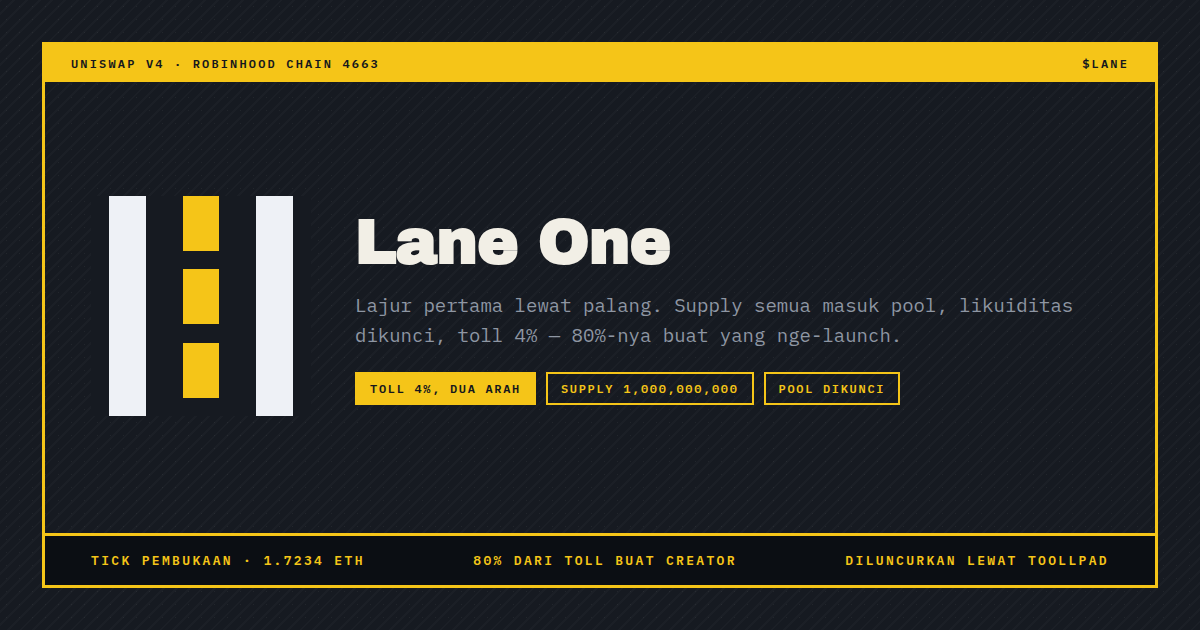
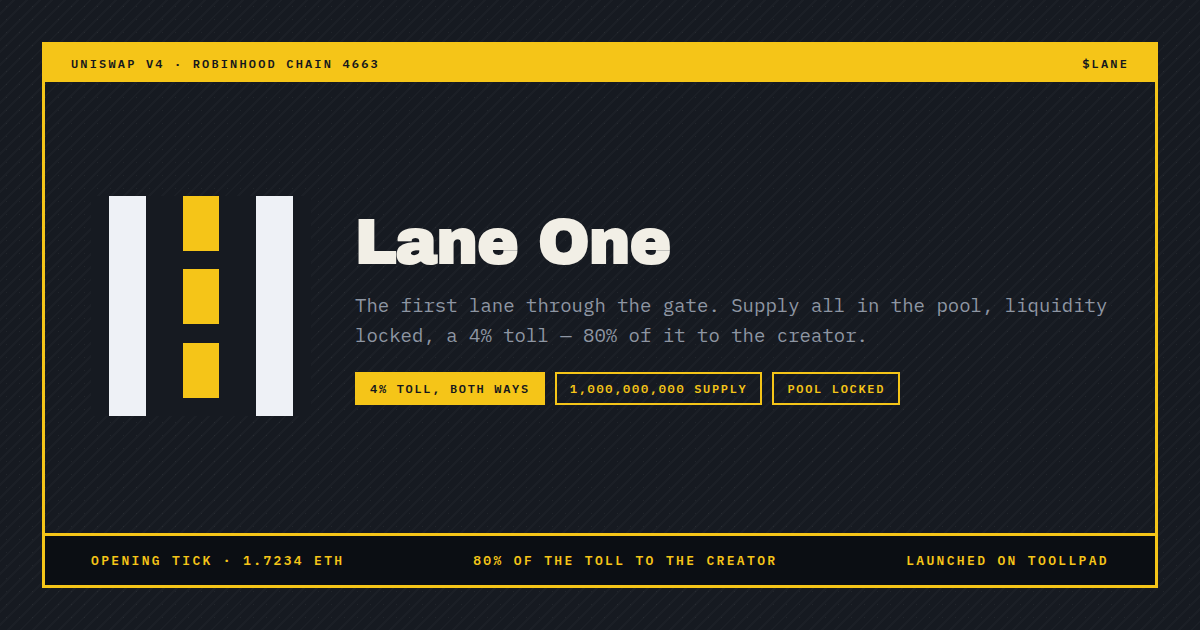
Put the account in English, everywhere it speaks
The audience is not the one the copy was written for. `profile.language` is
`en` now, and everything that faces outward follows it in one move — the page,
the banner and the link preview, the blurb that goes on chain with the notice,
and the bio.

One language, all the way through: a feed that switches half way reads like a
feed somebody else took over. The Indonesian bio stays in token.json under
`bio.id`, because the day that changes it should be a field and not a rewrite.

Claude-Session: https://claude.ai/code/session_01VnEFgbNeRk4dGA3iqU1kRi

diff --git a/PROFILE.md b/PROFILE.md
@@ -1,199 +1,185 @@
-# Lane One — akunnya
+# Lane One — the account
 
-Semua yang dibutuhkan buat nyetel `$LANE`, dalam kolom-kolom yang diminta X.
-Jumlah karakternya dihitung, bukan dikira-kira; X menghitung code point Unicode,
-dan em dash dihitung satu.
+Everything needed to set `$LANE` up, in the fields X asks for. Character counts
+were measured, not estimated; X counts Unicode code points, and the em dash
+counts as one.
 
-Launch-nya sendiri ada di [`token.json`](token.json) — file itu yang dikirim
-`npm run launch`, dan file ini yang ada di sekelilingnya.
+The launch itself is in [`token.json`](token.json) — that file is what
+`npm run launch` sends, and this one is what goes around it.
 
-**Akun ini berbahasa Indonesia dan tetap begitu.** Bio Inggris di atas feed
-Indonesia kebacanya seperti bio yang ditulis orang lain, jadi bahasanya satu:
-`profile.language` di `token.json` adalah `id`, dan art-nya ikut bahasa itu.
+**The account is in English and stays in it.** `profile.language` in
+`token.json` is `en`, and the page and the art follow it. An Indonesian bio is
+kept in that file under `bio.id` for the day that changes; a feed that switches
+language mid-way reads like a feed somebody else took over.
 
-## Namanya
+## The name
 
-**Lane One.** Token pertama yang diluncurkan lewat Toollpad, dan semuanya soal
-jalan: launchpad-nya palang, ini lajur yang lewat di bawahnya.
+**Lane One.** The first token launched through Toollpad, and a road the whole way
+down: the launchpad is a boom gate, and this is the lane that runs through it.
 
-Sengaja **tidak** dinamai seperti palangnya. Token bernama `$GATE` atau `$TOLL`,
-memakai mark milik launchpad-nya sendiri, persis berbentuk seperti Toollpad
-palsu — dan yang menanggung ruginya adalah pembaca yang tidak bisa membedakan.
-Mark di sini lajur jalan: dua garis tepi penuh dan satu garis tengah putus-putus,
-digambar di grid dua belas kali dua belas yang sama dengan palangnya, dan tidak
-berbagi apa pun selain itu.
+It is deliberately **not** named after the gate. A token called `$GATE` or
+`$TOLL`, wearing the launchpad's own mark, is the exact shape of the fake version
+of Toollpad — and the reader who cannot tell them apart is the one it would cost.
+The mark here is a lane of road: two solid edge lines and a broken centre line,
+drawn on the same twelve-by-twelve grid as the gate and sharing nothing else.
 
 ## Ticker
 
-**`$LANE`**. Bukan `$TOLL`, itu ticker milik launchpad-nya sendiri, dan bukan
-`$HOOD`, itu ticker Robinhood di NASDAQ — siapa pun yang baca sekilas akan
-mengiranya aset resmi Robinhood.
+**`$LANE`**. Not `$TOLL`, which is the launchpad's own ticker, and not `$HOOD`,
+which is Robinhood's NASDAQ ticker and would read as an official Robinhood asset
+to anyone skimming.
 
-## Display name — maks 50
+## Display name — max 50
 
-**Pakai ini** (16 karakter):
+**Pick this** (16 characters):
 
 ```
 Lane One | $LANE
 ```
 
-Alternatif: `Lane One` (8) · `Lane One — toll 4%, 80% buat kamu` (33)
+Alternatives: `Lane One` (8) · `Lane One — 4% toll, 80% yours` (29)
 
 ## Handle
 
-**`@laneone` masih usulan, belum didaftarkan.** Tidak ada yang mengklaimnya dari
-repo ini, jadi tidak ada satu pun gambar di sini yang mencetaknya — bukan banner,
-bukan avatar, bukan link preview — dan renderer-nya menolak render kalau ketemu,
-bukan sekadar mengandalkan ingatan.
+**`@laneone` is a proposal, not a registration.** Nothing here has claimed it, so
+nothing here prints it as if it had — not the banner, not the avatar, not the
+link preview, and the renderer refuses rather than trusting anyone to remember.
 
-Daftarkan dulu, baru isi `profile.handle` dan `link` di `token.json` lalu render
-ulang. Kalau sudah diambil orang: `@lane_one`, lalu `@onelanetoken`. Yang
-didaftarkan cuma satu, dan cuma yang itu yang ditulis di sini — handle dengan dua
-ejaan yang beredar adalah handle yang bisa jadi milik orang lain.
+Register it first, then fill in `profile.handle` and `link` in `token.json` and
+re-render. If it is taken: `@lane_one`, then `@onelanetoken`. Whichever one is
+registered is the only one ever written down here — a handle with two spellings
+in circulation is a handle somebody else can be.
 
-## Bio — maks 160
+## Bio — max 160
 
-**Pakai ini** (141 karakter):
+**Pick this** (147 characters):
 
 ```
-Satu lajur, satu toll. 4% tiap swap di Uniswap v4, 80% buat yang nge-launch. Supply 1 miliar, semua masuk pool. Likuiditas dikunci selamanya.
+One lane, one toll. 4% of every swap on Uniswap v4, 80% of it to whoever launched it. A billion supply, all in the pool. Liquidity locked for good.
 ```
 
-### Sisanya
+### The rest of them
 
-| Jumlah | Teks |
+| Count | Text |
 | --- | --- |
-| 138 | `Token di Uniswap v4: toll 4% tiap swap, dua arah, 80% buat creator. Supply 1 miliar masuk pool semua dan likuiditasnya nggak bisa ditarik.` |
-| 142 | `Nggak ada presale, nggak ada jatah tim. Supply 1 miliar langsung masuk pool dan dikunci. Tiap swap kena toll 4%, 80%-nya buat yang nge-launch.` |
-| 121 | `Lajur pertama lewat palang. 4% tiap swap, 80% buat yang nge-launch, sisanya masuk pool yang nggak bisa dikuras siapa pun.` |
-| 113 | `4% tiap swap. 80%-nya punya yang nge-launch. Sisanya masuk pool yang nggak bisa dikuras siapa pun, termasuk kami.` |
-
-Kalau suatu saat akunnya pindah ke bahasa Inggris, ganti `profile.language` jadi
-`en` dan render ulang — art-nya ikut. Bio Inggrisnya sudah siap (147 karakter):
-
-| Jumlah | Teks |
-| --- | --- |
-| 147 | `One lane, one toll. 4% of every swap on Uniswap v4, 80% of it to whoever launched it. A billion supply, all in the pool. Liquidity locked for good.` |
 | 140 | `The first lane through the gate. 4% of every swap, 80% of it to whoever launched it. A billion supply, all of it in a pool nobody can drain.` |
 | 141 | `One fee, both directions: 4% of everything paid in. The whole billion went into the pool, the pool is locked, and the pool's own fee is zero.` |
+| 139 | `Launched through Toollpad on Uniswap v4. 4% toll each way, 80% to the creator. No presale and no allocation — there was nowhere to put one.` |
+| 110 | `4% of every swap. 80% of it to the creator. The rest goes into a pool nobody can drain, this account included.` |
 
-### Yang sengaja tidak ada di semuanya
+### What is deliberately not in any of them
 
-**Harga, market cap, atau jumlah holder.** Ketiganya bergerak, bio tidak. Tick
-pembukaannya 1,7 ETH untuk seluruh supply — itu fakta tentang satu transaksi dan
-benar selamanya — tapi ditulis di bio, bacanya jadi "segini nilainya sekarang",
-padahal sudah tidak begitu sejak trade kedua.
+**A price, a market cap, or a holder count.** All three move and a bio does not.
+The opening tick values the whole supply at 1.7 ETH, which is a fact about one
+transaction and stays true forever — but in a bio it reads as what the token is
+worth today, which it will not be by the second trade.
 
-Yang **ada** di semuanya adalah konstanta di kontrak: `TOLL_BPS` 400,
-`CREATOR_BPS` 8000, `FIXED_SUPPLY` satu miliar — semuanya di `contracts/src/`,
-tidak ada setter-nya. Ubah salah satunya dan file ini jadi salah, jadi ubah file
-ini juga.
+What *is* in them are constants in a contract: `TOLL_BPS` is 400, `CREATOR_BPS`
+is 8000 and `FIXED_SUPPLY` is a billion, all in Toollpad's `contracts/src`, none
+with a setter. Change one and this file is wrong — so change this file too.
 
-## Blurb di notice (112 karakter)
+## The blurb on the notice (112 characters)
 
-Satu kalimat yang ikut masuk on-chain di notice-nya, dan tidak bisa diedit
-sesudahnya:
+One sentence that goes on chain with the launch, and is not editable afterwards:
 
 ```
-Lajur pertama lewat palang. Supply semua masuk pool, likuiditas dikunci, toll 4% — 80%-nya buat yang nge-launch.
+The first lane through the gate. Supply all in the pool, liquidity locked, a 4% toll — 80% of it to the creator.
 ```
 
 ## Website
 
-Halamannya sendiri, sudah live:
+Its own page, already live:
 
 ```
 https://lane-one-pi.vercel.app
 ```
 
-Itu juga yang jadi `imageURI` dan `link` di `token.json` — dua nilai yang ikut
-masuk on-chain di notice dan tidak bisa diedit sesudahnya, jadi keduanya harus
-menunjuk ke sesuatu yang benar-benar ada sebelum launch. Kalau nanti ada domain
-sendiri, ganti dulu di `token.json`, deploy, baru launch.
+That is also `imageURI` and `link` in `token.json` — two values that go on chain
+with the notice and cannot be edited afterwards, so both have to point at
+something that actually exists before the launch is sent. If a domain of its own
+comes later: change `token.json`, deploy, then launch, in that order.
 
-Isinya dua bagian: launch-nya seperti yang ditulis di `token.json`, dan apa kata
-chain — dibaca live, dan kosong selama belum diluncurkan. Setelah launch,
-alamat kontraknya tercatat di `token.json` dan halaman itu membacanya dari sana,
-bukan menebak dari ticker.
+Not an explorer page. It looks like a website, it is not one, and it goes stale
+the first time anything is redeployed. The contract address belongs in a post
+where it can be read against the chain, and on that page, which reads it from the
+chain itself.
 
-Bukan halaman explorer. Kelihatannya seperti website, padahal bukan, dan basi
-begitu ada yang di-redeploy. Alamat kontraknya tempatnya di post — supaya bisa
-dicek ke chain — dan di halaman itu, yang membacanya langsung dari chain.
+## Images
 
-## Gambar
-
-| Kolom | File | Ukuran |
+| Field | File | Size |
 | --- | --- | --- |
-| Foto profil | `out/avatar-1000.png` | 1000 × 1000 |
-| Header | `out/banner-1500x500.png` | 1500 × 500 |
-| Link preview | `out/og-1200x630.png` | 1200 × 630 |
+| Profile picture | `art/out/avatar-1000.png` | 1000 × 1000 |
+| Header | `art/out/banner-1500x500.png` | 1500 × 500 |
+| Link preview | `art/out/og-1200x630.png` | 1200 × 630 |
 
-Avatarnya full-bleed: garis-garis lajurnya keluar dari keempat sisi, jadi crop
-bulat ala X memotong jalan, bukan memotong sudut gambar jalan.
+The avatar is full-bleed: the lines of the lane run off all four edges, so X's
+circular crop takes road rather than taking the corners off a picture of road.
 
-Render ulang dengan `node token.mjs lane-one` di `../../brand`.
+Re-render with `npm run render` in [`art/`](art).
 
-## Launch-nya, seperti yang akan dikirim
+## The launch, as it will be sent
 
 | | |
 | --- | --- |
-| Tick pembukaan | 201800 — 1,7234 ETH untuk seluruh supply |
-| Range | 1,7 ETH di floor, 170 ETH di ceiling |
-| Supply | 1.000.000.000 — semuanya masuk pool |
-| Toll | 4% dari semua yang dibayarkan masuk, dua arah |
-| Bagian | 80% creator, 20% treasury |
-| Fee pool | Nol |
-| Venue | Uniswap v4, ETH asli, Robinhood Chain 4663 |
-| Likuiditas | Terkunci di locker, permanen |
-| Ditahan | Tidak ada |
+| Opening tick | 201800 — 1.7234 ETH for the whole supply |
+| Range | 1.7 ETH at the floor, 170 ETH at the ceiling |
+| Supply | 1,000,000,000 — all of it into the pool |
+| Toll | 4% of everything paid in, either direction |
+| Split | 80% creator, 20% treasury |
+| Pool fee | Zero |
+| Venue | Uniswap v4, native ETH, Robinhood Chain 4663 |
+| Liquidity | Locked in the locker, permanently |
+| Held back | None of it |
 
-Tick pembukaan adalah ujung atas range: spot mulai di titik token paling murah,
-jadi beli pertama langsung terisi dan pool tidak pernah minta ETH ke locker yang
-memang tidak punya. Perlu kira-kira `sqrt(1,7 × 170)` ≈ 17 ETH pembelian untuk
-menghabiskan seluruh supply.
+The opening tick is the top of the range: spot starts where the token is
+cheapest, so the first buy fills immediately and the pool never asks the locker
+for ETH it does not have. It takes roughly `sqrt(1.7 × 170)` ≈ 17 ETH of buying
+to work through the whole supply.
 
-**1,7234, bukan 1,7.** Tick itu grid selebar 200 dan 1,7 ETH tidak jatuh pas di
-salah satunya, jadi launch-nya buka di tick terdekat — dan kedua ujung range
-dibulatkan ke arah yang sama, ke arah token lebih mahal, supaya penjualan tidak
-pernah mulai di bawah floor yang diminta. Art-nya mencetak 1,7234 karena itu yang
-akan benar-benar terjadi di pool; 1,7 itu yang diminta, dan cuma satu dari
-keduanya yang fakta tentang transaksinya. `TOKEN=lane-one npm run launch`
-mencetak keduanya dulu, dan tidak mengirim apa pun tanpa `CONFIRM=launch`.
+**1.7234, not 1.7.** Ticks are a grid 200 wide and 1.7 ETH does not land on one,
+so the launch opens at the nearest tick — and both edges round the same way,
+towards a dearer token, so the sale never starts below the floor that was asked
+for. The art prints 1.7234 because that is what the pool will actually open at;
+1.7 is what was asked for, and only one of the two is a fact about the
+transaction. `TOKEN=../../lane-one npm run launch` prints both before it sends
+anything, and sends nothing without `CONFIRM=launch`.
 
-## Post
+## Posts
 
 **Launch:**
 
-> Lane One ($LANE) sudah ada di board Toollpad. Uniswap v4, pair ETH asli.
+> Lane One ($LANE) is on the Toollpad board. Uniswap v4, paired against native
+> ETH.
 >
-> Supply 1 miliar, semuanya masuk pool. Nggak ada presale, nggak ada jatah tim,
-> nggak ada yang ditahan — nggak ada tempat buat nyimpennya.
+> A billion supply, all of it in the pool. No presale, no allocation, nothing
+> held back — there is nowhere to hold it.
 >
-> Tiap swap kena toll 4%, dua arah. 80%-nya buat yang nge-launch.
+> Every swap pays a 4% toll, both directions. 80% of it goes to whoever launched
+> it.
 >
-> Likuiditasnya dikunci. Bukan dijanjikan, bukan timelock: locker-nya memang
-> nggak punya fungsi buat narik.
+> The liquidity is locked. Not promised, not timelocked: the locker has no
+> function that takes any out.
 >
 > Contract: 0x…
 
-**Kenapa tarifnya nggak bisa diubah belakangan:**
+**Why the rate cannot be changed later:**
 
-> Tarifnya ada di hook Uniswap v4, dan hook itu bagian dari pool key.
+> The rate lives in a Uniswap v4 hook, and a pool's hook is part of its key.
 >
-> Artinya sudah terkunci sejak pool-nya dibuka. Bukan governance, bukan
-> timelock, bukan "belum ada rencana naikin" — hook beda itu pool beda. Tarif di
-> hari terakhir sama dengan tarif di hari pertama.
+> So it is fixed the moment the pool opens. Not governed, not timelocked, not
+> "no plans to change it" — a different hook is a different pool. The rate on the
+> last day is the rate on the first.
 
-**Yang sebenarnya dipunya creator:**
+**What the creator actually owns:**
 
-> Habis launch, yang nge-launch pegang nol token. Itu bukan jebakan, itu memang
-> intinya: supply-nya nggak pernah lewat tangan siapa-siapa, jadi nggak ada yang
-> bisa di-dump.
+> Launch, and you end the transaction holding zero tokens. That is not a catch,
+> it is the point: the supply never passes through anybody's hands, so there is
+> nothing anyone could dump.
 >
-> Yang dipunya itu 80% dari toll, selama masih ada yang trading.
+> What you own is 80% of the toll, for as long as anyone trades it.
 
-*Gambar: `out/banner-1500x500.png` atau `out/og-1200x630.png`. Isi baris contract
-dari receipt launch-nya dan cek dulu ke chain — `npm run status` di
-`../../contracts` mencetak apa yang benar-benar ada di pool manager. Alamat
-kontrak di dalam post adalah satu-satunya hal yang nggak bisa diverifikasi
-pembaca cuma dengan membaca post-nya.*
+*Image: `art/out/banner-1500x500.png` or `art/out/og-1200x630.png`. Fill the
+contract line in from the launch receipt and check it against the chain first —
+`npm run status` in Toollpad's `contracts/` prints what the pool manager actually
+has. A contract address in a post is the one thing readers cannot verify by
+reading the post.*
